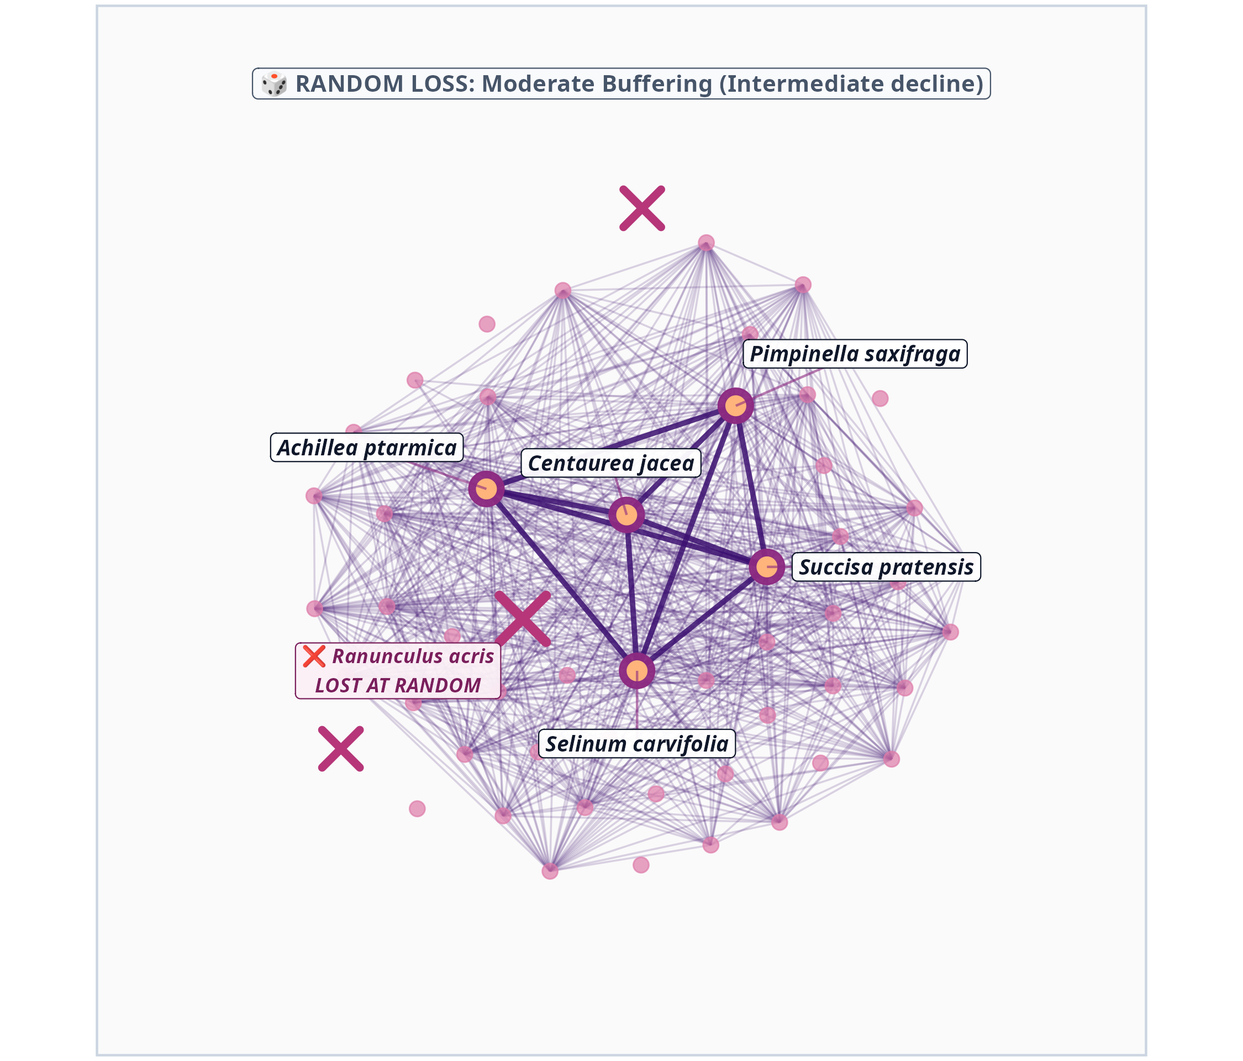
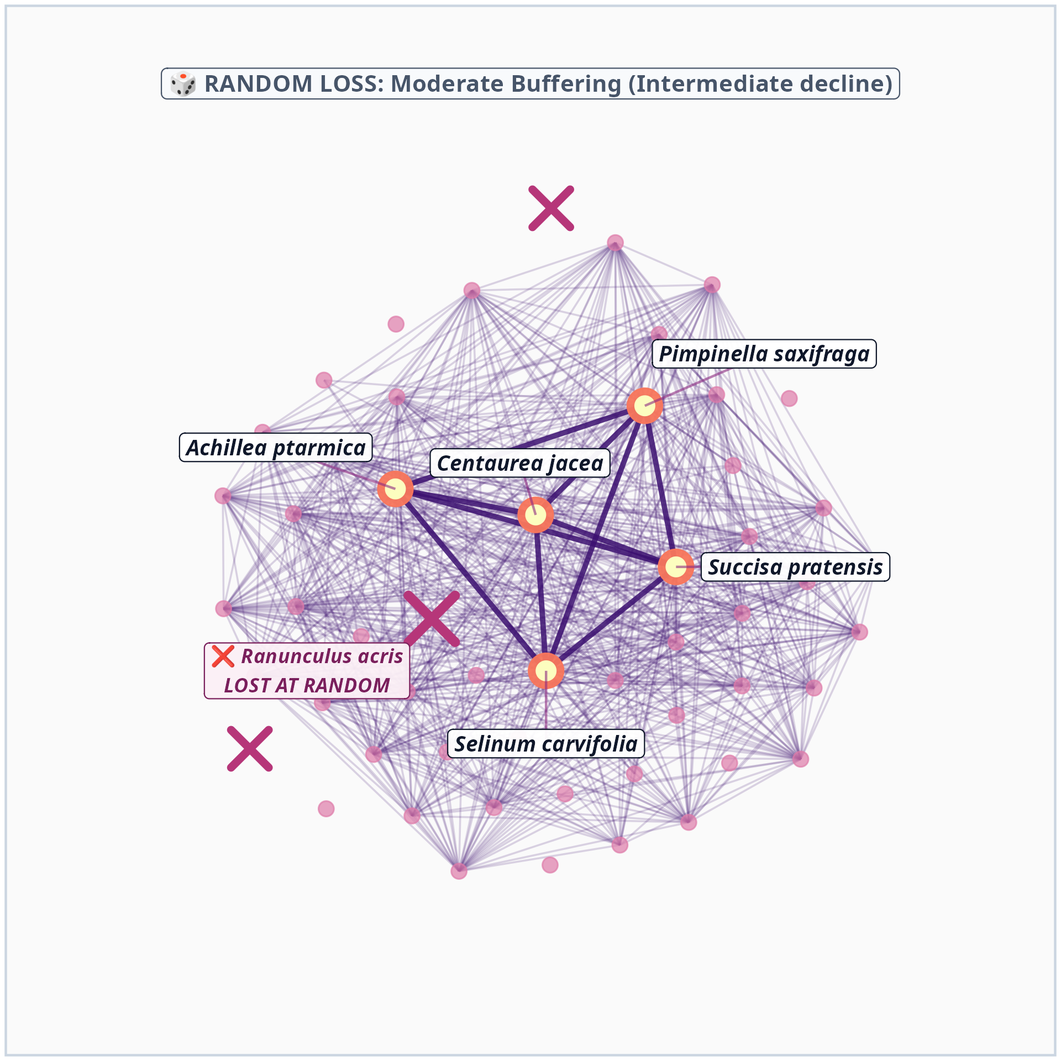
feat: update presentation slides and story step images for plant and airport networks

diff --git a/docs/index.html b/docs/index.html
@@ -286,7 +286,7 @@
 </div>
 <div class="quarto-figure quarto-figure-center">
 <figure>
-<p><img data-src="images/plant_step4_coreness.png" class="fragment fade-in quarto-figure quarto-figure-center" data-fragment-index="8" height="520"></p>
+<p><img data-src="images/plant_step4_coreness_clean.png" class="fragment fade-in quarto-figure quarto-figure-center" data-fragment-index="8" height="520"></p>
 </figure>
 </div>
 </div>
@@ -357,6 +357,12 @@ Mutually linked backbone (<span class="math inline">\(k = k_{\max}\)</span>)
 </div>
 </div>
 </div></div>
+<div class="absolute fragment fade-in" data-fragment-index="6" style="z-index: 10;top: 95px; left: 245px; width: 560px; ">
+<img src="images/Mixed_onions.jpg" style="width: 560px; height: 560px; object-fit: cover; border-radius: 12px; display: block;">
+<div style="text-align: right; font-size: 11px; color: #9CA3AF; margin-top: 2px;">
+Photo: Colin, Wikimedia Commons, CC BY-SA 3.0
+</div>
+</div>
 <div class="fragment" data-fragment-index="5">
 <div style="display: flex; align-items: center; justify-content: center; gap: 16px; margin-top: 2px; padding: 8px 14px; background: #F1F5F9; border-radius: 10px;">
 <div style="display:flex; flex-direction:column; gap:4px;">
@@ -383,7 +389,7 @@ Daucus (periphery)
 </div>
 </div>
 <aside class="notes">
-<p>Slide: What actually makes a species part of the core? Network topology defines this using k-core decomposition (Seidman 1983). [Click 1 – onion]: How do we decide which species form the core? Think of the network as an onion: we peel it layer by layer, and what is left at the centre is the core. Think of it like peeling an onion: - Step 1 (The Entire Web): We start with all species connected (k &gt;= 1). Outer peripheral species (coral/red) connect by only a single link. - Step 2 (Iterative Peeling): We peel away outer shells: any species whose degree drops below k is successively pruned. Single-link leaves fall away first. - Step 3 (The Invariant Core): At k_max, only the mutually reinforcing central backbone remains (navy hubs with gold centers). These core hubs don’t just have visits—they link to each other, creating the structural foundation that holds the entire community together. - Step 5 (Every year): We repeat this for each of the 15 annual networks. Filled dot = species is central that year (standardized coreness Gc &gt; 1). Centaurea jacea (core) is central in all 15 years; Daucus carota (the next-ranked, peripheral species, present all 15 years) only in 5 (2012–14, 2022–23). Centrality ranks are strongly preserved between years (Kendall’s W = 0.64 vs 0.23 expected by chance, p = 0.001; consecutive years Spearman median 0.77). Centaurea jacea sits above the null in all 15 years.</p>
+<p>Slide: What actually makes a species part of the core? Network topology defines this using k-core decomposition (Seidman 1983). [Click 1 – onion]: How do we decide which species form the core? Think of the network as an onion: we peel it layer by layer, and what is left at the centre is the core. Think of it like peeling an onion: - Step 1 (The Entire Web): We start with all species connected (k &gt;= 1). Outer peripheral species (coral/red) connect by only a single link. - Step 2 (Iterative Peeling): We peel away outer shells: any species whose degree drops below k is successively pruned. Single-link leaves fall away first. - Step 3 (The Invariant Core): At k_max, only the mutually reinforcing central backbone remains (navy hubs with gold centers). These core hubs don’t just have visits—they link to each other, creating the structural foundation that holds the entire community together. - Step 5 (Every year): We repeat this for each of the 15 annual networks. Filled dot = species is central that year (standardized coreness Gc &gt; 1). Centaurea jacea (core) is central in all 15 years; Daucus carota (the next-ranked, peripheral species, present all 15 years) only in 5 (2012–14, 2022–23). - Step 6 (onion again): So the core is the centre of the onion, and it stays the same centre year after year. Centrality ranks are strongly preserved between years (Kendall’s W = 0.64 vs 0.23 expected by chance, p = 0.001; consecutive years Spearman median 0.77). Centaurea jacea sits above the null in all 15 years.</p>
 <style type="text/css">
         span.MJX_Assistive_MathML {
           position:absolute!important;
@@ -406,63 +412,57 @@ Daucus (periphery)
 <div class="r-stack">
 <div class="quarto-figure quarto-figure-center">
 <figure>
-<p><img data-src="images/blank.png" class="quarto-figure quarto-figure-center" height="490"></p>
+<p><img data-src="images/blank.png" class="quarto-figure quarto-figure-center" height="540"></p>
 </figure>
 </div>
 <div class="quarto-figure quarto-figure-center">
 <figure>
-<p><img data-src="images/plant_step4_coreness.png" class="fragment fade-in-then-out quarto-figure quarto-figure-center" data-fragment-index="2" height="490"></p>
+<p><img data-src="images/plant_step4_coreness_clean.png" class="fragment fade-in-then-out quarto-figure quarto-figure-center" data-fragment-index="2" height="540"></p>
 </figure>
 </div>
 <div class="quarto-figure quarto-figure-center">
 <figure>
-<p><img data-src="images/plant_step_rand.png" class="fragment fade-in-then-out quarto-figure quarto-figure-center" data-fragment-index="3" height="490"></p>
+<p><img data-src="images/plant_step_rand_clean.png" class="fragment fade-in-then-out quarto-figure quarto-figure-center" data-fragment-index="3" height="540"></p>
 </figure>
 </div>
 <div class="quarto-figure quarto-figure-center">
 <figure>
-<p><img data-src="images/plant_step5_spoke.png" class="fragment fade-in-then-out quarto-figure quarto-figure-center" data-fragment-index="4" height="490"></p>
+<p><img data-src="images/plant_step5_spoke_clean.png" class="fragment fade-in-then-out quarto-figure quarto-figure-center" data-fragment-index="4" height="540"></p>
 </figure>
 </div>
 <div class="quarto-figure quarto-figure-center">
 <figure>
-<p><img data-src="images/plant_step6_hub.png" class="fragment fade-in quarto-figure quarto-figure-center" data-fragment-index="5" height="490"></p>
+<p><img data-src="images/plant_step6_hub_clean.png" class="fragment fade-in quarto-figure quarto-figure-center" data-fragment-index="5" height="540"></p>
 </figure>
 </div>
-</div>
-<div class="fragment" data-fragment-index="2" style="font-size: 14px; text-align: center; color: #64748B; margin-top: 4px;">
-<p><em>Meadow pollinator sharing network under simulated extinction scenarios</em></p>
 </div>
 </div><div class="column" style="width:48%;">
 <div class="r-stack">
 <div class="quarto-figure quarto-figure-center">
 <figure>
-<p><img data-src="images/blank.png" class="quarto-figure quarto-figure-center" height="490"></p>
+<p><img data-src="images/blank.png" class="quarto-figure quarto-figure-center" height="540"></p>
 </figure>
 </div>
 <div class="quarto-figure quarto-figure-center">
 <figure>
-<p><img data-src="images/cascade_curve_axes.png" class="fragment fade-in-then-out quarto-figure quarto-figure-center" data-fragment-index="2" height="490"></p>
+<p><img data-src="images/cascade_curve_axes.png" class="fragment fade-in-then-out quarto-figure quarto-figure-center" data-fragment-index="2" height="540"></p>
 </figure>
 </div>
 <div class="quarto-figure quarto-figure-center">
 <figure>
-<p><img data-src="images/cascade_curve_rand.png" class="fragment fade-in-then-out quarto-figure quarto-figure-center" data-fragment-index="3" height="490"></p>
+<p><img data-src="images/cascade_curve_rand.png" class="fragment fade-in-then-out quarto-figure quarto-figure-center" data-fragment-index="3" height="540"></p>
 </figure>
 </div>
 <div class="quarto-figure quarto-figure-center">
 <figure>
-<p><img data-src="images/cascade_curve_periph.png" class="fragment fade-in-then-out quarto-figure quarto-figure-center" data-fragment-index="4" height="490"></p>
+<p><img data-src="images/cascade_curve_periph.png" class="fragment fade-in-then-out quarto-figure quarto-figure-center" data-fragment-index="4" height="540"></p>
 </figure>
 </div>
 <div class="quarto-figure quarto-figure-center">
 <figure>
-<p><img data-src="images/cascade_curve_core.png" class="fragment fade-in quarto-figure quarto-figure-center" data-fragment-index="5" height="490"></p>
+<p><img data-src="images/cascade_curve_core.png" class="fragment fade-in quarto-figure quarto-figure-center" data-fragment-index="5" height="540"></p>
 </figure>
 </div>
-</div>
-<div class="fragment" data-fragment-index="2" style="font-size: 14px; text-align: center; color: #64748B; margin-top: 4px;">
-<p><em>Co-extinction simulation (Memmott et al.&nbsp;2004) on Handrkov pollination web</em></p>
 </div>
 </div></div>
 <aside class="notes">
@@ -481,9 +481,17 @@ Daucus (periphery)
 </section>
 <section id="drought" class="slide level2" style="margin-top: -12px; margin-bottom: 4px;">
 <h2>Drought</h2>
-<p><img data-src="images/drought_severity_50yrs.png" class="" style="object-fit: contain; margin-top: 10px;;width:100.0%" height="450"></p>
+<div class="absolute fragment fade-in-then-out" data-fragment-index="1" style="z-index: 10;top: 95px; left: 245px; width: 560px; ">
+<img src="images/Drought_square.jpg" style="width: 560px; height: 560px; object-fit: cover; border-radius: 12px; display: block;">
+<div style="text-align: right; font-size: 11px; color: #9CA3AF; margin-top: 2px;">
+Photo: Tomas Castelazo, Wikimedia Commons, CC BY 3.0
+</div>
+</div>
+<div class="fragment" data-fragment-index="2">
+<p><img data-src="images/drought_severity_50yrs.png" class="nostretch" style="object-fit: contain; margin-top: 10px;;width:100.0%" height="450"></p>
 <div style="font-size: 18px; text-align: center; color: #888888; margin-top: 5px;">
 <p><em>Data: TerraClimate (Abatzoglou et al., 2018), Handrkov locality (1975–2025)</em></p>
+</div>
 </div>
 <aside class="notes">
 <p>In theory, networks collapse when the core is removed. But in reality, networks change in time as they are under pressure from the environment—specifically drought. Looking across the last 50 years at our meadow, drought has become an increasingly severe and persistent pressure.</p>
@@ -588,6 +596,11 @@ recovered every year
 </div>
 </div>
 </div>
+<div class="fragment" style="display: flex; justify-content: center; margin-top: 18px; font-size: 30px;">
+<ul>
+<li>sampled once per year in August</li>
+</ul>
+</div>
 </section>
 <section id="methods---plant-pollinator-survey" class="slide level2">
 <h2>Methods - plant-pollinator survey</h2>
@@ -645,7 +658,7 @@ Pollinator survey
 <div class="absolute fragment" style="top: 10%; left: 55%; ">
 <ul>
 <li>“Snapshot” of plant-pollinator interaction</li>
-<li>20–63 surveys per plot per year (median 28)</li>
+<li>~28 surveys per plot per year</li>
 <li>42 378 surveys in total</li>
 <li>68 460 interactions recorded</li>
 <li>176 pollinator taxa × 55 plant species</li>
@@ -678,6 +691,9 @@ Pollinator survey
 </section>
 <section id="year-to-year-change" class="slide level2">
 <h2>Year-to-Year Change</h2>
+<div class="absolute" style="font-size: 20px; color: #64748B; text-align: right; line-height: 1.3;top: 38px; right: 0px; ">
+<p>Pollinator sharing: Müller’s index (PAC)<br>NMDS, Bray–Curtis</p>
+</div>
 <div class="r-stack">
 <div class="quarto-figure quarto-figure-center">
 <figure>
@@ -828,20 +844,25 @@ Plant Identity <span style="font-size: 14px; opacity: 0.85; font-weight: 400;">(
 <div class="r-stack">
 <div class="quarto-figure quarto-figure-center">
 <figure>
-<p><img data-src="images/visit_share_1_visits.png" class="fragment fade-out quarto-figure quarto-figure-center" data-fragment-index="1" height="550"></p>
+<p><img data-src="images/visit_share_0_axes.png" class="fragment fade-out quarto-figure quarto-figure-center" data-fragment-index="1" height="550"></p>
 </figure>
 </div>
 <div class="quarto-figure quarto-figure-center">
 <figure>
-<p><img data-src="images/visit_share_2_flowers.png" class="fragment fade-in quarto-figure quarto-figure-center" data-fragment-index="1" height="550"></p>
+<p><img data-src="images/visit_share_1_flowers.png" class="fragment fade-in-then-out quarto-figure quarto-figure-center" data-fragment-index="1" height="550"></p>
+</figure>
+</div>
+<div class="quarto-figure quarto-figure-center">
+<figure>
+<p><img data-src="images/visit_share_2_visits.png" class="fragment fade-in quarto-figure quarto-figure-center" data-fragment-index="2" height="550"></p>
 </figure>
 </div>
 </div>
-<div class="fragment absolute" data-fragment-index="2" style="background-color: rgba(0, 0, 0, 0.85); backdrop-filter: blur(8px); box-shadow: 0 16px 40px rgba(0, 0, 0, 0.6); border-radius: 12px; padding: 20px 30px; border: 1px solid rgba(255, 255, 255, 0.22); color: white; text-align: center; font-size: 28px; font-weight: 700; line-height: 1.35;top: 27%; left: 17%; width: 66%; ">
+<div class="fragment absolute" data-fragment-index="3" style="background-color: rgba(0, 0, 0, 0.85); backdrop-filter: blur(8px); box-shadow: 0 16px 40px rgba(0, 0, 0, 0.6); border-radius: 12px; padding: 20px 30px; border: 1px solid rgba(255, 255, 255, 0.22); color: white; text-align: center; font-size: 28px; font-weight: 700; line-height: 1.35;top: 27%; left: 17%; width: 66%; ">
 <p>The core holds <span style="color: #CBD5E1;">14% of flowers</span> but gets <span style="color: #FEB47B;">67% of visits</span></p>
 </div>
 <aside class="notes">
-<p>Slide: Why does losing the core cost more and more? Step 1 (navy): share of all pollinator visits that go to the 6 core species. It rises from 34–55% (2011–14) to 84–88% (2023–25), +2.3 percentage points per year (GLS-AR1, p = 0.001), and is higher in drier summers (p = 0.004). Peaks in 2015 and 2018. Step 2 (grey): share of flowers produced by the core species. Always far below the visit line: on average 14% of flowers vs 67% of visits over 15 years. [Advance – overlay]: Pollinators use the core far beyond its flower supply. The more visits concentrate on the core, the more damage its loss does: that is why the robustness gap grows. Caveat if asked: core flowering also increased in recent years (up to 31% in 2025), so part of the rise in visits follows more core flowers. In dry years peripheral flowering drops (~3× along the drought gradient, p = 0.032; backup slide) while core flowering does not.</p>
+<p>Slide: Why does losing the core cost more and more? Step 0: axes and drought strip only. Step 1 (grey dotted, plant photos): share of all flowers produced by the 6 core species — low, 6–31%. Step 2 (purple, pollinator photos): share of all pollinator visits that go to the 6 core species. It rises from 34–55% (2011–14) to 84–88% (2023–25), +2.3 percentage points per year (GLS-AR1, p = 0.001), and is higher in drier summers (p = 0.004). Peaks in 2015 and 2018. The visit line is always far above the flower line: on average 14% of flowers vs 67% of visits over 15 years. [Advance – overlay]: Pollinators use the core far beyond its flower supply. The more visits concentrate on the core, the more damage its loss does: that is why the robustness gap grows. Caveat if asked: core flowering also increased in recent years (up to 31% in 2025), so part of the rise in visits follows more core flowers. In dry years peripheral flowering drops (~3× along the drought gradient, p = 0.032; backup slide) while core flowering does not.</p>
 <style type="text/css">
         span.MJX_Assistive_MathML {
           position:absolute!important;

diff --git a/index.revealjs.md b/index.revealjs.md
@@ -121,7 +121,7 @@ Step 5 (Pollinator-Sharing Network): By projecting these shared visits across th
 
 ![](images/plant_step3_routes.png){.fragment .fade-in-then-out fragment-index=7 height="520px" fig-align="center"}
 
-![](images/plant_step4_coreness.png){.fragment .fade-in fragment-index=8 height="520px" fig-align="center"}
+![](images/plant_step4_coreness_clean.png){.fragment .fade-in fragment-index=8 height="520px" fig-align="center"}
 :::
 :::
 :::::
@@ -183,6 +183,11 @@ Step 8 (Plant Coreness): The exact same architecture emerges! Just 6 core perenn
 :::
 ::::::
 
+::: {.absolute .fragment .fade-in fragment-index=6 top="95" left="245" width="560" style="z-index: 10;"}
+<img src="images/Mixed_onions.jpg" style="width: 560px; height: 560px; object-fit: cover; border-radius: 12px; display: block;">
+<div style="text-align: right; font-size: 11px; color: #9CA3AF; margin-top: 2px;">Photo: Colin, Wikimedia Commons, CC BY-SA 3.0</div>
+:::
+
 ::: {.fragment fragment-index=5}
 <div style="display: flex; align-items: center; justify-content: center; gap: 16px; margin-top: 2px; padding: 8px 14px; background: #F1F5F9; border-radius: 10px;">
 <div style="display:flex; flex-direction:column; gap:4px;">
@@ -206,7 +211,8 @@ Think of it like peeling an onion:
 - Step 1 (The Entire Web): We start with all species connected (k >= 1). Outer peripheral species (coral/red) connect by only a single link.
 - Step 2 (Iterative Peeling): We peel away outer shells: any species whose degree drops below k is successively pruned. Single-link leaves fall away first.
 - Step 3 (The Invariant Core): At k_max, only the mutually reinforcing central backbone remains (navy hubs with gold centers). These core hubs don't just have visits—they link to each other, creating the structural foundation that holds the entire community together.
-- Step 5 (Every year): We repeat this for each of the 15 annual networks. Filled dot = species is central that year (standardized coreness Gc > 1). Centaurea jacea (core) is central in all 15 years; Daucus carota (the next-ranked, peripheral species, present all 15 years) only in 5 (2012–14, 2022–23). Centrality ranks are strongly preserved between years (Kendall's W = 0.64 vs 0.23 expected by chance, p = 0.001; consecutive years Spearman median 0.77). Centaurea jacea sits above the null in all 15 years.
+- Step 5 (Every year): We repeat this for each of the 15 annual networks. Filled dot = species is central that year (standardized coreness Gc > 1). Centaurea jacea (core) is central in all 15 years; Daucus carota (the next-ranked, peripheral species, present all 15 years) only in 5 (2012–14, 2022–23).
+- Step 6 (onion again): So the core is the centre of the onion, and it stays the same centre year after year. Centrality ranks are strongly preserved between years (Kendall's W = 0.64 vs 0.23 expected by chance, p = 0.001; consecutive years Spearman median 0.77). Centaurea jacea sits above the null in all 15 years.
 :::
 
 ## Robustness {style="margin-top: -12px; margin-bottom: 4px;"}
@@ -218,37 +224,29 @@ Think of it like peeling an onion:
 ::::: columns
 ::: {.column width="50%"}
 ::: r-stack
-![](images/blank.png){height="490px" fig-align="center"}
+![](images/blank.png){height="540px" fig-align="center"}
 
-![](images/plant_step4_coreness.png){.fragment .fade-in-then-out fragment-index=2 height="490px" fig-align="center"}
+![](images/plant_step4_coreness_clean.png){.fragment .fade-in-then-out fragment-index=2 height="540px" fig-align="center"}
 
-![](images/plant_step_rand.png){.fragment .fade-in-then-out fragment-index=3 height="490px" fig-align="center"}
+![](images/plant_step_rand_clean.png){.fragment .fade-in-then-out fragment-index=3 height="540px" fig-align="center"}
 
-![](images/plant_step5_spoke.png){.fragment .fade-in-then-out fragment-index=4 height="490px" fig-align="center"}
+![](images/plant_step5_spoke_clean.png){.fragment .fade-in-then-out fragment-index=4 height="540px" fig-align="center"}
 
-![](images/plant_step6_hub.png){.fragment .fade-in fragment-index=5 height="490px" fig-align="center"}
-:::
-
-::: {.fragment fragment-index=2 style="font-size: 14px; text-align: center; color: #64748B; margin-top: 4px;"}
-*Meadow pollinator sharing network under simulated extinction scenarios*
+![](images/plant_step6_hub_clean.png){.fragment .fade-in fragment-index=5 height="540px" fig-align="center"}
 :::
 :::
 
 ::: {.column width="48%"}
 ::: r-stack
-![](images/blank.png){height="490px" fig-align="center"}
+![](images/blank.png){height="540px" fig-align="center"}
 
-![](images/cascade_curve_axes.png){.fragment .fade-in-then-out fragment-index=2 height="490px" fig-align="center"}
+![](images/cascade_curve_axes.png){.fragment .fade-in-then-out fragment-index=2 height="540px" fig-align="center"}
 
-![](images/cascade_curve_rand.png){.fragment .fade-in-then-out fragment-index=3 height="490px" fig-align="center"}
+![](images/cascade_curve_rand.png){.fragment .fade-in-then-out fragment-index=3 height="540px" fig-align="center"}
 
-![](images/cascade_curve_periph.png){.fragment .fade-in-then-out fragment-index=4 height="490px" fig-align="center"}
+![](images/cascade_curve_periph.png){.fragment .fade-in-then-out fragment-index=4 height="540px" fig-align="center"}
 
-![](images/cascade_curve_core.png){.fragment .fade-in fragment-index=5 height="490px" fig-align="center"}
-:::
-
-::: {.fragment fragment-index=2 style="font-size: 14px; text-align: center; color: #64748B; margin-top: 4px;"}
-*Co-extinction simulation (Memmott et al. 2004) on Handrkov pollination web*
+![](images/cascade_curve_core.png){.fragment .fade-in fragment-index=5 height="540px" fig-align="center"}
 :::
 :::
 :::::
@@ -266,10 +264,17 @@ Bridge (spoken, no extra click): But this is one snapshot. How does this picture
 
 ## Drought {style="margin-top: -12px; margin-bottom: 4px;"}
 
+::: {.absolute .fragment .fade-in-then-out fragment-index=1 top="95" left="245" width="560" style="z-index: 10;"}
+<img src="images/Drought_square.jpg" style="width: 560px; height: 560px; object-fit: cover; border-radius: 12px; display: block;">
+<div style="text-align: right; font-size: 11px; color: #9CA3AF; margin-top: 2px;">Photo: Tomas Castelazo, Wikimedia Commons, CC BY 3.0</div>
+:::
+
+::: {.fragment fragment-index=2}
 ![](images/drought_severity_50yrs.png){.nostretch width="100%" height="450px" style="object-fit: contain; margin-top: 10px;"}
 
 ::: {style="font-size: 18px; text-align: center; color: #888888; margin-top: 5px;"}
 *Data: TerraClimate (Abatzoglou et al., 2018), Handrkov locality (1975–2025)*
+:::
 :::
 
 ::: notes
@@ -347,6 +352,10 @@ Zooming into our 15-year period: only 2013 and 2021 were wet summers. 2018 was t
 :::
 :::::
 
+::: {.fragment style="display: flex; justify-content: center; margin-top: 18px; font-size: 30px;"}
+-   sampled once per year in August
+:::
+
 ## Methods - plant-pollinator survey
 
 ::::: {style="display: flex; justify-content: center; align-items: flex-start; gap: 28px; margin-top: 30px;"}
@@ -401,7 +410,7 @@ Zooming into our 15-year period: only 2013 and 2021 were wet summers. 2018 was t
 
 ::: {.absolute .fragment top="10%" left="55%"}
 -   "Snapshot" of plant-pollinator interaction
--   20–63 surveys per plot per year (median 28)
+-   ~28 surveys per plot per year
 -   42 378 surveys in total
 -   68 460 interactions recorded
 -   176 pollinator taxa × 55 plant species
@@ -428,6 +437,10 @@ Zooming into our 15-year period: only 2013 and 2021 were wet summers. 2018 was t
 ![](images/all_networks_grid.png){fig-align="center" height="600"}
 
 ## Year-to-Year Change
+
+::: {.absolute top="38" right="0" style="font-size: 20px; color: #64748B; text-align: right; line-height: 1.3;"}
+Pollinator sharing: Müller's index (PAC)<br>NMDS, Bray–Curtis
+:::
 
 ::: r-stack
 ![](images/nmds_step1_axes.png){.fragment .fade-out fragment-index=1 fig-align="center" height="550px"}
@@ -526,19 +539,23 @@ So the dependence on the core is driven by drought AND by a long-term trend: cor
 ## Why?
 
 ::: r-stack
-![](images/visit_share_1_visits.png){.fragment .fade-out fragment-index=1 fig-align="center" height="550px"}
+![](images/visit_share_0_axes.png){.fragment .fade-out fragment-index=1 fig-align="center" height="550px"}
 
-![](images/visit_share_2_flowers.png){.fragment .fade-in fragment-index=1 fig-align="center" height="550px"}
+![](images/visit_share_1_flowers.png){.fragment .fade-in-then-out fragment-index=1 fig-align="center" height="550px"}
+
+![](images/visit_share_2_visits.png){.fragment .fade-in fragment-index=2 fig-align="center" height="550px"}
 :::
 
-::: {.fragment .absolute fragment-index=2 top="27%" left="17%" width="66%" style="background-color: rgba(0, 0, 0, 0.85); backdrop-filter: blur(8px); box-shadow: 0 16px 40px rgba(0, 0, 0, 0.6); border-radius: 12px; padding: 20px 30px; border: 1px solid rgba(255, 255, 255, 0.22); color: white; text-align: center; font-size: 28px; font-weight: 700; line-height: 1.35;"}
+::: {.fragment .absolute fragment-index=3 top="27%" left="17%" width="66%" style="background-color: rgba(0, 0, 0, 0.85); backdrop-filter: blur(8px); box-shadow: 0 16px 40px rgba(0, 0, 0, 0.6); border-radius: 12px; padding: 20px 30px; border: 1px solid rgba(255, 255, 255, 0.22); color: white; text-align: center; font-size: 28px; font-weight: 700; line-height: 1.35;"}
 The core holds <span style="color: #CBD5E1;">14% of flowers</span> but gets <span style="color: #FEB47B;">67% of visits</span>
 :::
 
 ::: notes
 Slide: Why does losing the core cost more and more?
-Step 1 (navy): share of all pollinator visits that go to the 6 core species. It rises from 34–55% (2011–14) to 84–88% (2023–25), +2.3 percentage points per year (GLS-AR1, p = 0.001), and is higher in drier summers (p = 0.004). Peaks in 2015 and 2018.
-Step 2 (grey): share of flowers produced by the core species. Always far below the visit line: on average 14% of flowers vs 67% of visits over 15 years.
+Step 0: axes and drought strip only.
+Step 1 (grey dotted, plant photos): share of all flowers produced by the 6 core species — low, 6–31%.
+Step 2 (purple, pollinator photos): share of all pollinator visits that go to the 6 core species. It rises from 34–55% (2011–14) to 84–88% (2023–25), +2.3 percentage points per year (GLS-AR1, p = 0.001), and is higher in drier summers (p = 0.004). Peaks in 2015 and 2018.
+The visit line is always far above the flower line: on average 14% of flowers vs 67% of visits over 15 years.
 [Advance – overlay]: Pollinators use the core far beyond its flower supply. The more visits concentrate on the core, the more damage its loss does: that is why the robustness gap grows.
 Caveat if asked: core flowering also increased in recent years (up to 31% in 2025), so part of the rise in visits follows more core flowers. In dry years peripheral flowering drops (~3× along the drought gradient, p = 0.032; backup slide) while core flowering does not.
 :::
